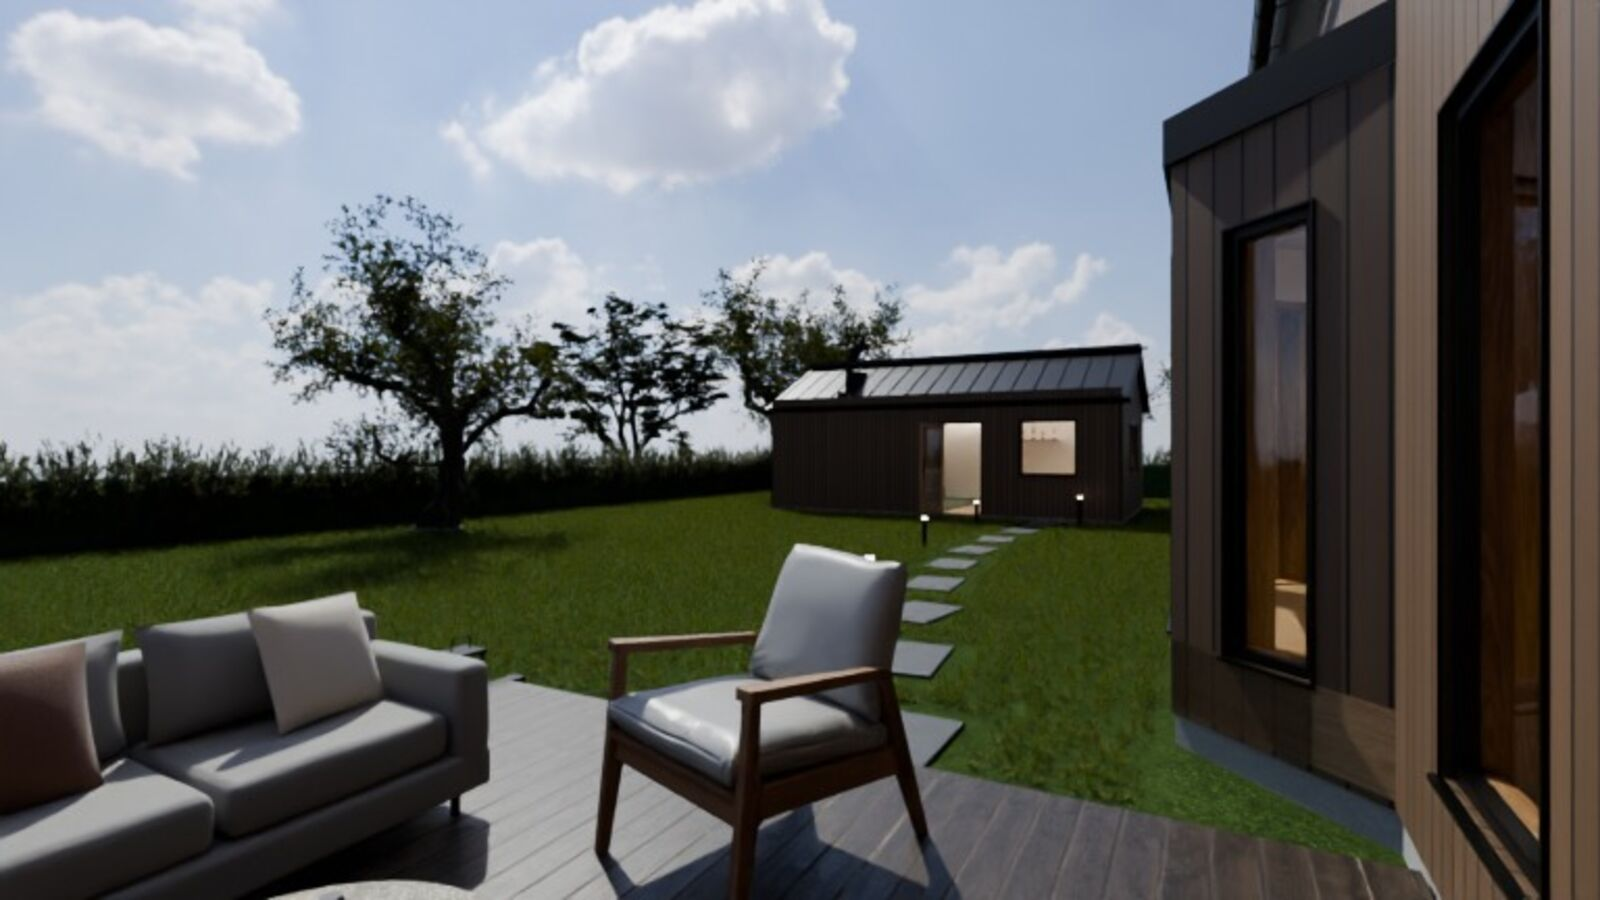
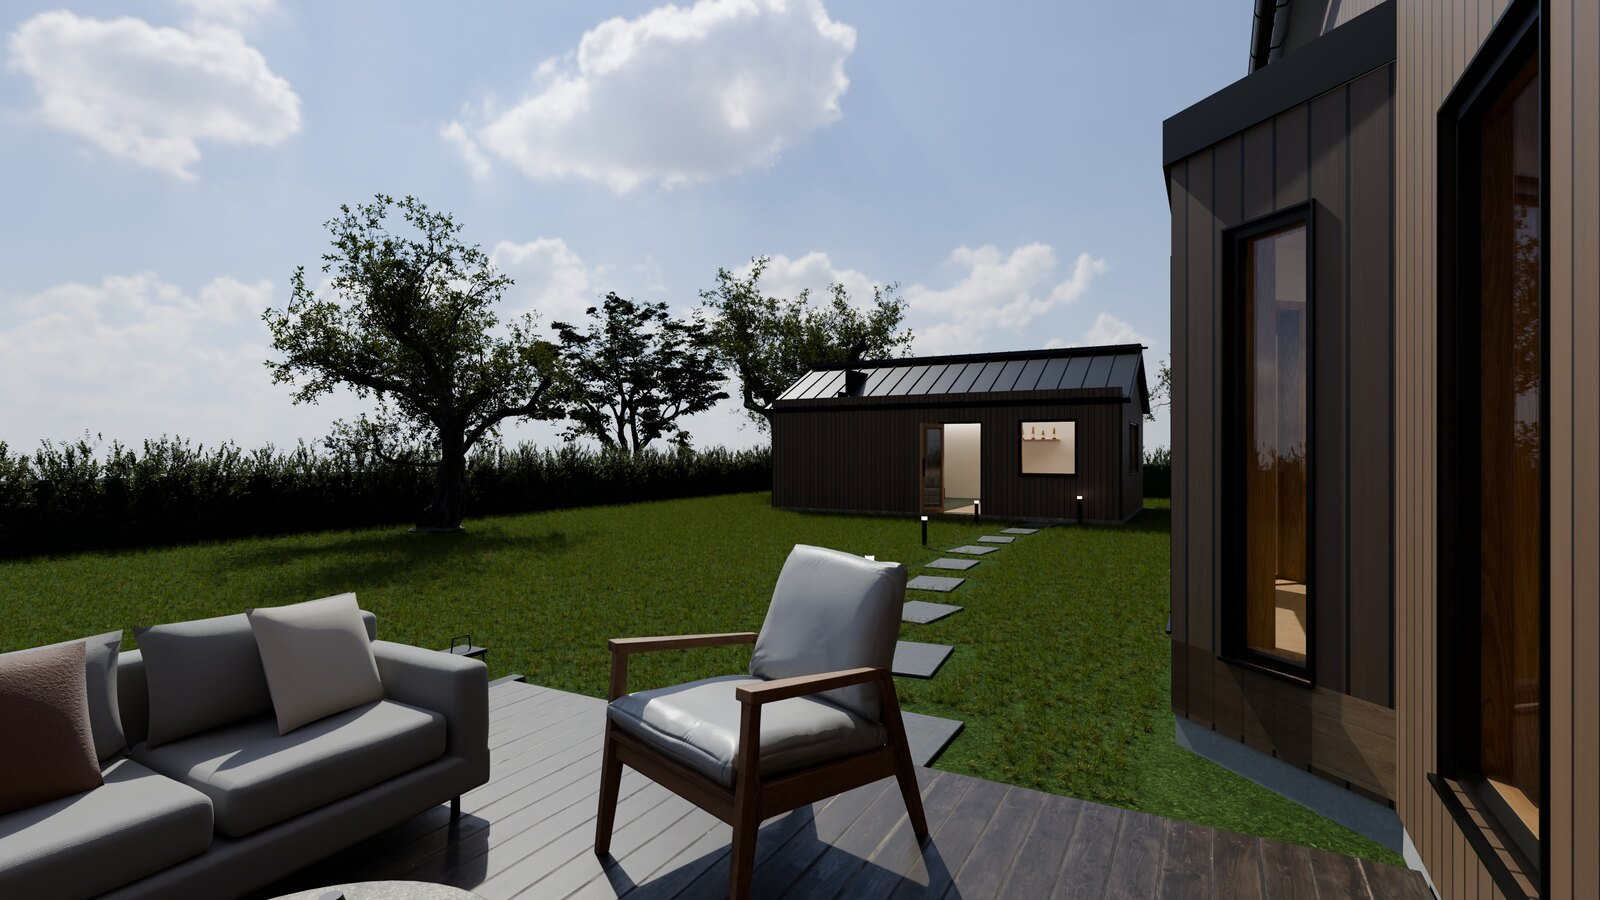
Boligannonse: 22 av 25 bilder i 4K

diff --git a/annonse/index.html b/annonse/index.html
@@ -103,7 +103,7 @@ img { max-width: 100%; }
 
 <div class="ark">
   <header class="topp">
-    <div class="merke"><strong>3D-visualisering av planlagt ombygging</strong><span>19 av 25 bilder er ferdige i 4K, resten er forhåndsvisninger</span></div>
+    <div class="merke"><strong>3D-visualisering av planlagt ombygging</strong><span>22 av 25 bilder er ferdige i 4K, resten er forhåndsvisninger</span></div>
     <h1>Enebolig med golfanneks og oppvarmet garasje</h1>
     <figure class="bilde hero"><button type="button" class="apne" data-i="0" aria-label="Åpne bildet: Fasaden mot nord med overbygd inngang"><img src="img/01-fasade.jpg" width="1600" height="900" alt="Fasaden mot nord med overbygd inngang"></button><figcaption>Fasaden mot nord med overbygd inngang</figcaption></figure>
     <p class="ingress">Et hus over tre plan med stue og kjøkken mot hagen, hovedsoverom med eget bad, tre barnerom og loft. I hagen står et anneks med golfsimulator. Trykk på et bilde for å se det i full oppløsning. På mobil fyller bildet hele skjermen når du snur den, og du blar ved å sveipe.</p>
@@ -115,8 +115,8 @@ img { max-width: 100%; }
 <section id="forste" class="del"><div class="delhode"><h2>Første etasje</h2><p>Stue, TV-stue, spisestue og kjøkken ligger på rekke mot hagen i sør. Tilbygget med kjøkken og spisestue ligger litt lavere enn stua og har 2,9 meter under taket.</p></div><div class="galleri"><figure class="bilde stor"><button type="button" class="apne" data-i="2" aria-label="Åpne bildet: Stua med karnapp mot hagen"><img src="img/04-stue.jpg" width="1600" height="900" alt="Stua med karnapp mot hagen" loading="lazy"></button><figcaption>Stua med karnapp mot hagen</figcaption></figure><figure class="bilde"><button type="button" class="apne" data-i="3" aria-label="Åpne bildet: Sofagruppa, med TV-stua bak glassveggen til venstre"><img src="img/05-stue-sofa.jpg" width="1600" height="900" alt="Sofagruppa, med TV-stua bak glassveggen til venstre" loading="lazy"></button><figcaption>Sofagruppa, med TV-stua bak glassveggen til venstre</figcaption></figure><figure class="bilde"><button type="button" class="apne" data-i="4" aria-label="Åpne bildet: Spisestue med rundt bord til åtte og skyvedører ut til terrassen"><img src="img/07-spisestue.jpg" width="1600" height="900" alt="Spisestue med rundt bord til åtte og skyvedører ut til terrassen" loading="lazy"></button><figcaption>Spisestue med rundt bord til åtte og skyvedører ut til terrassen</figcaption></figure><figure class="bilde"><button type="button" class="apne" data-i="5" aria-label="Åpne bildet: Kjøkken med mørk brune fronter og øy i Dekton"><img src="img/08-kjokken.jpg" width="1600" height="900" alt="Kjøkken med mørk brune fronter og øy i Dekton" loading="lazy"></button><figcaption>Kjøkken med mørk brune fronter og øy i Dekton</figcaption></figure><figure class="bilde"><button type="button" class="apne" data-i="6" aria-label="Åpne bildet: Kjøkkenøya har usynlig induksjon under steinplata"><img src="img/09-kjokken-oy.jpg" width="1600" height="900" alt="Kjøkkenøya har usynlig induksjon under steinplata" loading="lazy"></button><figcaption>Kjøkkenøya har usynlig induksjon under steinplata</figcaption></figure><figure class="bilde"><button type="button" class="apne" data-i="7" aria-label="Åpne bildet: TV-stua kan stenges av med glassfoldevegg"><img src="img/06-tvstue.jpg" width="1600" height="900" alt="TV-stua kan stenges av med glassfoldevegg" loading="lazy"></button><figcaption>TV-stua kan stenges av med glassfoldevegg</figcaption></figure><figure class="bilde"><button type="button" class="apne" data-i="8" aria-label="Åpne bildet: Entréen sett fra hoveddøra, med stua innerst"><img src="img/03-entre.jpg" width="1600" height="900" alt="Entréen sett fra hoveddøra, med stua innerst" loading="lazy"></button><figcaption>Entréen sett fra hoveddøra, med stua innerst</figcaption></figure></div></section>
 <section id="andre" class="del"><div class="delhode"><h2>Andre etasje</h2><p>Hovedsoverom med eget bad og walk-in, tre barnerom, barnebad, vaskerom og hjemmekontor.</p></div><div class="galleri"><figure class="bilde stor"><button type="button" class="apne" data-i="9" aria-label="Åpne bildet: Hovedsoverommet, med loftstrappa utenfor døra"><img src="img/10-hovedsoverom.jpg" width="1600" height="900" alt="Hovedsoverommet, med loftstrappa utenfor døra" loading="lazy"></button><figcaption>Hovedsoverommet, med loftstrappa utenfor døra</figcaption></figure><figure class="bilde"><button type="button" class="apne" data-i="10" aria-label="Åpne bildet: Bad til hovedsoverommet med dusj under skråtaket"><img src="img/11-masterbad.jpg" width="1600" height="900" alt="Bad til hovedsoverommet med dusj under skråtaket" loading="lazy"></button><figcaption>Bad til hovedsoverommet med dusj under skråtaket</figcaption></figure><figure class="bilde"><button type="button" class="apne" data-i="11" aria-label="Åpne bildet: Walk-in med plassbygd innredning i eik"><img src="img/12-walkin.jpg" width="1600" height="900" alt="Walk-in med plassbygd innredning i eik" loading="lazy"></button><figcaption>Walk-in med plassbygd innredning i eik</figcaption></figure><figure class="bilde"><button type="button" class="apne" data-i="12" aria-label="Åpne bildet: Barnerom med gulvhøyt vindu mot vest"><img src="img/13-barnerom2.jpg" width="1600" height="900" alt="Barnerom med gulvhøyt vindu mot vest" loading="lazy"></button><figcaption>Barnerom med gulvhøyt vindu mot vest</figcaption></figure><figure class="bilde"><button type="button" class="apne" data-i="13" aria-label="Åpne bildet: Barnerom med lenestol ved vinduet"><img src="img/14-barnerom3.jpg" width="1600" height="900" alt="Barnerom med lenestol ved vinduet" loading="lazy"></button><figcaption>Barnerom med lenestol ved vinduet</figcaption></figure><figure class="bilde"><button type="button" class="apne" data-i="14" aria-label="Åpne bildet: Barnerom med takvinduer mot sør"><img src="img/15-barnerom1.jpg" width="1600" height="900" alt="Barnerom med takvinduer mot sør" loading="lazy"></button><figcaption>Barnerom med takvinduer mot sør</figcaption></figure><figure class="bilde"><button type="button" class="apne" data-i="15" aria-label="Åpne bildet: Barnebad med dobbel servant og takvinduer"><img src="img/25-barnebad.jpg" width="1600" height="900" alt="Barnebad med dobbel servant og takvinduer" loading="lazy"><span class="lav">Lav kvalitet, 4K kommer</span></button><figcaption>Barnebad med dobbel servant og takvinduer</figcaption></figure><figure class="bilde"><button type="button" class="apne" data-i="16" aria-label="Åpne bildet: Hjemmekontor i nisjen ved trappa"><img src="img/16-kontor.jpg" width="1600" height="900" alt="Hjemmekontor i nisjen ved trappa" loading="lazy"></button><figcaption>Hjemmekontor i nisjen ved trappa</figcaption></figure></div></section>
 <section id="loft" class="del"><div class="delhode"><h2>Loftet</h2><p>Loftet har gjesterom i vest og et stort hobbyrom i øst, med tre takvinduer mot nord.</p></div><div class="galleri"><figure class="bilde stor"><button type="button" class="apne" data-i="17" aria-label="Åpne bildet: Hobbyrommet på loftet"><img src="img/17-loft.jpg" width="1600" height="900" alt="Hobbyrommet på loftet" loading="lazy"></button><figcaption>Hobbyrommet på loftet</figcaption></figure><figure class="bilde"><button type="button" class="apne" data-i="18" aria-label="Åpne bildet: Gjesterommet under mønet"><img src="img/18-loft-gjest.jpg" width="1600" height="900" alt="Gjesterommet under mønet" loading="lazy"></button><figcaption>Gjesterommet under mønet</figcaption></figure></div></section>
-<section id="hage" class="del"><div class="delhode"><h2>Terrasse og hage</h2><p>Terrassen ligger utenfor spisestua og fortsetter rundt hjørnet til kjøkkendøra. Hagen er skjermet av hekk.</p></div><div class="galleri"><figure class="bilde stor"><button type="button" class="apne" data-i="19" aria-label="Åpne bildet: Terrassen sett fra plenen"><img src="img/19-terrasse.jpg" width="1600" height="900" alt="Terrassen sett fra plenen" loading="lazy"></button><figcaption>Terrassen sett fra plenen</figcaption></figure><figure class="bilde"><button type="button" class="apne" data-i="20" aria-label="Åpne bildet: Sofagruppe på terrassen, annekset innerst i hagen"><img src="img/20-terrasse-ute.jpg" width="1600" height="900" alt="Sofagruppe på terrassen, annekset innerst i hagen" loading="lazy"><span class="lav">Lav kvalitet, 4K kommer</span></button><figcaption>Sofagruppe på terrassen, annekset innerst i hagen</figcaption></figure><figure class="bilde"><button type="button" class="apne" data-i="21" aria-label="Åpne bildet: Hellegang over plenen til annekset"><img src="img/21-hage-anneks.jpg" width="1600" height="900" alt="Hellegang over plenen til annekset" loading="lazy"><span class="lav">Lav kvalitet, 4K kommer</span></button><figcaption>Hellegang over plenen til annekset</figcaption></figure></div></section>
-<section id="anneks" class="del"><div class="delhode"><h2>Anneks og garasje</h2><p>Annekset på 40 kvadratmeter har golfsimulator med lerret fra vegg til vegg og en liten lounge. Garasjen er dobbel og oppvarmet.</p></div><div class="galleri"><figure class="bilde stor"><button type="button" class="apne" data-i="22" aria-label="Åpne bildet: Golfsimulatoren i annekset"><img src="img/22-golf.jpg" width="1600" height="900" alt="Golfsimulatoren i annekset" loading="lazy"><span class="lav">Lav kvalitet, 4K kommer</span></button><figcaption>Golfsimulatoren i annekset</figcaption></figure><figure class="bilde"><button type="button" class="apne" data-i="23" aria-label="Åpne bildet: Loungen i annekset, under himling av eikespiler"><img src="img/23-golf-lounge.jpg" width="1600" height="900" alt="Loungen i annekset, under himling av eikespiler" loading="lazy"><span class="lav">Lav kvalitet, 4K kommer</span></button><figcaption>Loungen i annekset, under himling av eikespiler</figcaption></figure><figure class="bilde"><button type="button" class="apne" data-i="24" aria-label="Åpne bildet: Oppvarmet garasje med arbeidsbenk og skapvegg"><img src="img/24-garasje.jpg" width="1600" height="900" alt="Oppvarmet garasje med arbeidsbenk og skapvegg" loading="lazy"><span class="lav">Lav kvalitet, 4K kommer</span></button><figcaption>Oppvarmet garasje med arbeidsbenk og skapvegg</figcaption></figure></div></section>
+<section id="hage" class="del"><div class="delhode"><h2>Terrasse og hage</h2><p>Terrassen ligger utenfor spisestua og fortsetter rundt hjørnet til kjøkkendøra. Hagen er skjermet av hekk.</p></div><div class="galleri"><figure class="bilde stor"><button type="button" class="apne" data-i="19" aria-label="Åpne bildet: Terrassen sett fra plenen"><img src="img/19-terrasse.jpg" width="1600" height="900" alt="Terrassen sett fra plenen" loading="lazy"></button><figcaption>Terrassen sett fra plenen</figcaption></figure><figure class="bilde"><button type="button" class="apne" data-i="20" aria-label="Åpne bildet: Sofagruppe på terrassen, annekset innerst i hagen"><img src="img/20-terrasse-ute.jpg" width="1600" height="900" alt="Sofagruppe på terrassen, annekset innerst i hagen" loading="lazy"></button><figcaption>Sofagruppe på terrassen, annekset innerst i hagen</figcaption></figure><figure class="bilde"><button type="button" class="apne" data-i="21" aria-label="Åpne bildet: Hellegang over plenen til annekset"><img src="img/21-hage-anneks.jpg" width="1600" height="900" alt="Hellegang over plenen til annekset" loading="lazy"></button><figcaption>Hellegang over plenen til annekset</figcaption></figure></div></section>
+<section id="anneks" class="del"><div class="delhode"><h2>Anneks og garasje</h2><p>Annekset på 40 kvadratmeter har golfsimulator med lerret fra vegg til vegg og en liten lounge. Garasjen er dobbel og oppvarmet.</p></div><div class="galleri"><figure class="bilde stor"><button type="button" class="apne" data-i="22" aria-label="Åpne bildet: Golfsimulatoren i annekset"><img src="img/22-golf.jpg" width="1600" height="900" alt="Golfsimulatoren i annekset" loading="lazy"></button><figcaption>Golfsimulatoren i annekset</figcaption></figure><figure class="bilde"><button type="button" class="apne" data-i="23" aria-label="Åpne bildet: Loungen i annekset, under himling av eikespiler"><img src="img/23-golf-lounge.jpg" width="1600" height="900" alt="Loungen i annekset, under himling av eikespiler" loading="lazy"><span class="lav">Lav kvalitet, 4K kommer</span></button><figcaption>Loungen i annekset, under himling av eikespiler</figcaption></figure><figure class="bilde"><button type="button" class="apne" data-i="24" aria-label="Åpne bildet: Oppvarmet garasje med arbeidsbenk og skapvegg"><img src="img/24-garasje.jpg" width="1600" height="900" alt="Oppvarmet garasje med arbeidsbenk og skapvegg" loading="lazy"><span class="lav">Lav kvalitet, 4K kommer</span></button><figcaption>Oppvarmet garasje med arbeidsbenk og skapvegg</figcaption></figure></div></section>
 
   <section class="del" id="valg">
     <div class="delhode"><h2>Materialer og løsninger</h2><p>Valgene som går igjen i hele huset.</p></div>
@@ -134,7 +134,7 @@ img { max-width: 100%; }
 
 <script>
 (function () {
-  var data = [["01-fasade","Fasaden mot nord med overbygd inngang",1],["02-oversikt","Huset, garasjen og annekset sett fra nord",1],["04-stue","Stua med karnapp mot hagen",1],["05-stue-sofa","Sofagruppa, med TV-stua bak glassveggen til venstre",1],["07-spisestue","Spisestue med rundt bord til åtte og skyvedører ut til terrassen",1],["08-kjokken","Kjøkken med mørk brune fronter og øy i Dekton",1],["09-kjokken-oy","Kjøkkenøya har usynlig induksjon under steinplata",1],["06-tvstue","TV-stua kan stenges av med glassfoldevegg",1],["03-entre","Entréen sett fra hoveddøra, med stua innerst",1],["10-hovedsoverom","Hovedsoverommet, med loftstrappa utenfor døra",1],["11-masterbad","Bad til hovedsoverommet med dusj under skråtaket",1],["12-walkin","Walk-in med plassbygd innredning i eik",1],["13-barnerom2","Barnerom med gulvhøyt vindu mot vest",1],["14-barnerom3","Barnerom med lenestol ved vinduet",1],["15-barnerom1","Barnerom med takvinduer mot sør",1],["25-barnebad","Barnebad med dobbel servant og takvinduer",0],["16-kontor","Hjemmekontor i nisjen ved trappa",1],["17-loft","Hobbyrommet på loftet",1],["18-loft-gjest","Gjesterommet under mønet",1],["19-terrasse","Terrassen sett fra plenen",1],["20-terrasse-ute","Sofagruppe på terrassen, annekset innerst i hagen",0],["21-hage-anneks","Hellegang over plenen til annekset",0],["22-golf","Golfsimulatoren i annekset",0],["23-golf-lounge","Loungen i annekset, under himling av eikespiler",0],["24-garasje","Oppvarmet garasje med arbeidsbenk og skapvegg",0]];
+  var data = [["01-fasade","Fasaden mot nord med overbygd inngang",1],["02-oversikt","Huset, garasjen og annekset sett fra nord",1],["04-stue","Stua med karnapp mot hagen",1],["05-stue-sofa","Sofagruppa, med TV-stua bak glassveggen til venstre",1],["07-spisestue","Spisestue med rundt bord til åtte og skyvedører ut til terrassen",1],["08-kjokken","Kjøkken med mørk brune fronter og øy i Dekton",1],["09-kjokken-oy","Kjøkkenøya har usynlig induksjon under steinplata",1],["06-tvstue","TV-stua kan stenges av med glassfoldevegg",1],["03-entre","Entréen sett fra hoveddøra, med stua innerst",1],["10-hovedsoverom","Hovedsoverommet, med loftstrappa utenfor døra",1],["11-masterbad","Bad til hovedsoverommet med dusj under skråtaket",1],["12-walkin","Walk-in med plassbygd innredning i eik",1],["13-barnerom2","Barnerom med gulvhøyt vindu mot vest",1],["14-barnerom3","Barnerom med lenestol ved vinduet",1],["15-barnerom1","Barnerom med takvinduer mot sør",1],["25-barnebad","Barnebad med dobbel servant og takvinduer",0],["16-kontor","Hjemmekontor i nisjen ved trappa",1],["17-loft","Hobbyrommet på loftet",1],["18-loft-gjest","Gjesterommet under mønet",1],["19-terrasse","Terrassen sett fra plenen",1],["20-terrasse-ute","Sofagruppe på terrassen, annekset innerst i hagen",1],["21-hage-anneks","Hellegang over plenen til annekset",1],["22-golf","Golfsimulatoren i annekset",1],["23-golf-lounge","Loungen i annekset, under himling av eikespiler",0],["24-garasje","Oppvarmet garasje med arbeidsbenk og skapvegg",0]];
   var lys = document.getElementById("lys"), rom = document.getElementById("lys-rom"), bilde = document.getElementById("lys-bilde");
   var tekst = document.getElementById("lys-tekst"), teller = document.getElementById("lys-teller"), zoom = document.getElementById("lys-zoom");
   var i = 0, sist = null;
